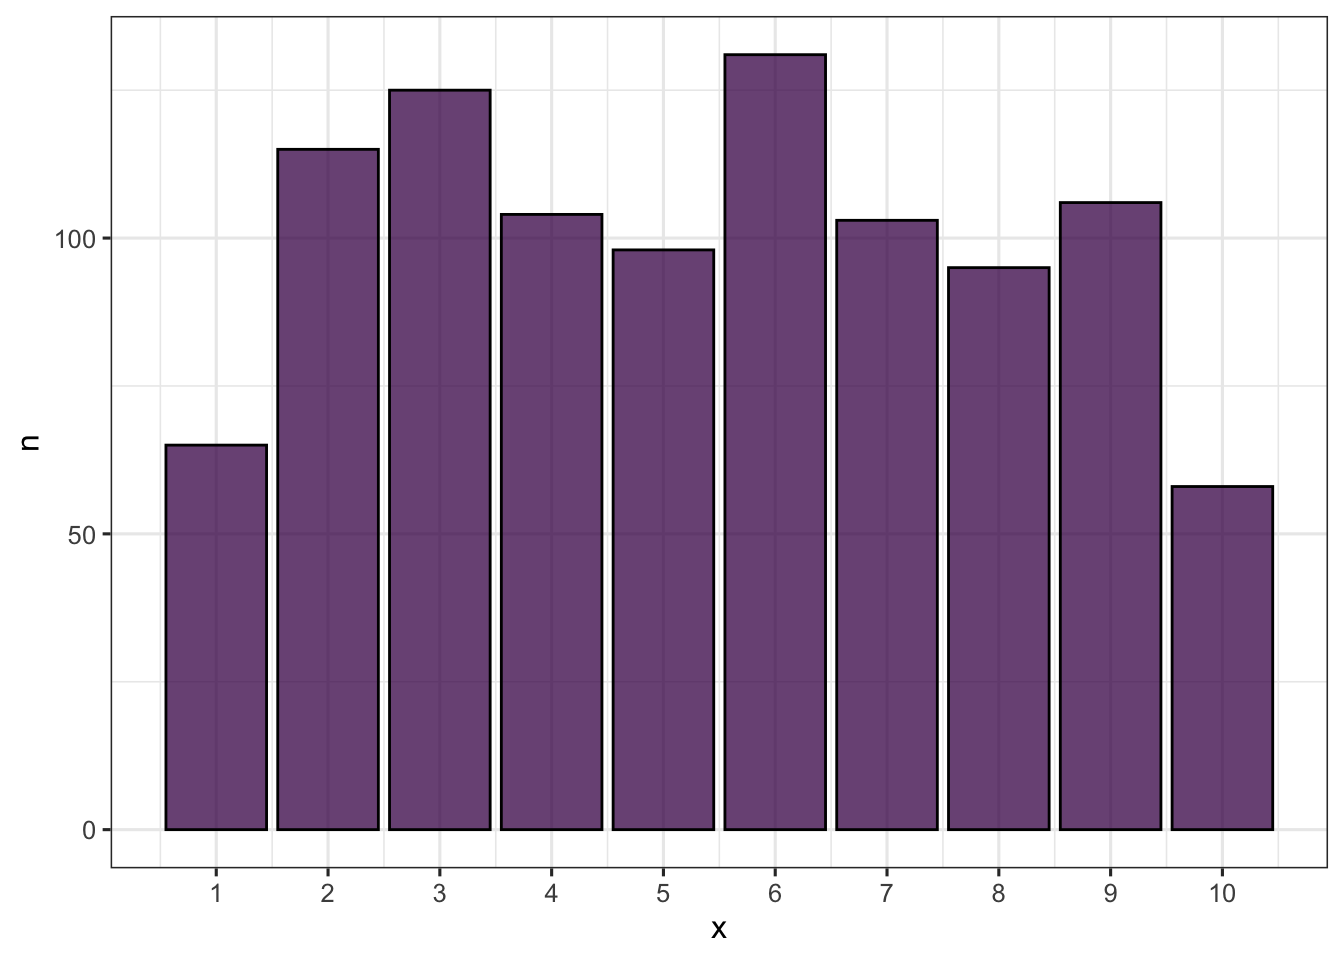
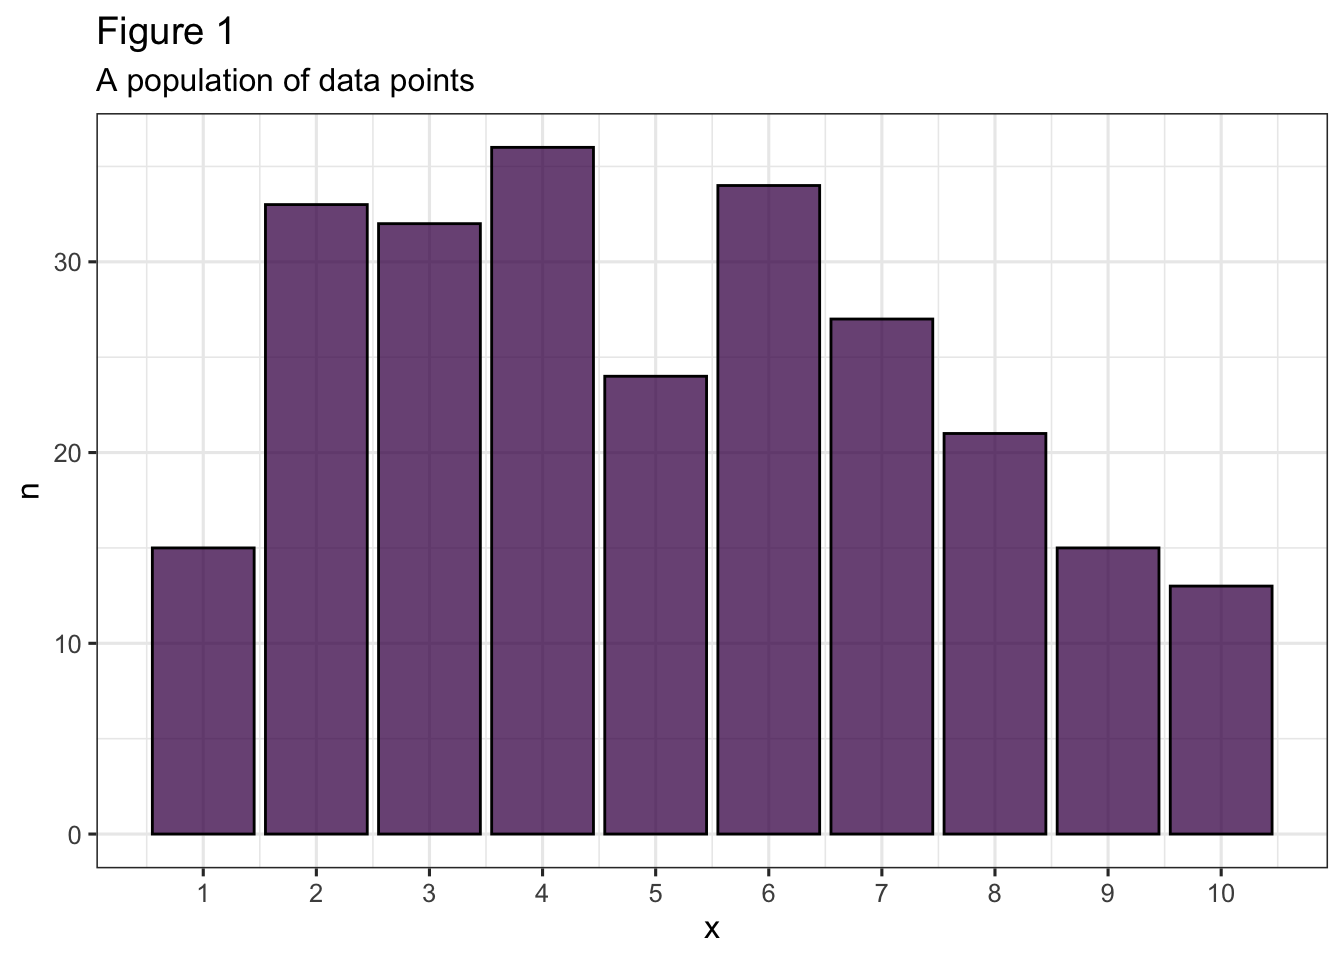
Updated n-1 post.

diff --git a/content/post/2020-08-05-why-divide-by-n-1-when-calculating-the-standard-deviation.html b/content/post/2020-08-05-why-divide-by-n-1-when-calculating-the-standard-deviation.html
@@ -22,47 +22,48 @@ slug: why-divide-by-n-1
 <div id="the-problem" class="section level2">
 <h2>The Problem</h2>
 <p>The problem with using the population variance formula to calculate the variance of a sample is that it is biased. It is biased in that it produces an <em>underestimation</em> of the true variance. Let’s demonstrate that with some simulated data.</p>
-<p>We simulate a population of 1000 data points from a uniform distribution with a range from 1 to 10. Below I show the histogram that represents our population.</p>
+<p>We simulate a population of 250 data points from a uniform distribution with a range from 1 to 10. Below I show the histogram that represents our population.</p>
 <p><img src="/post/2020-08-05-why-divide-by-n-1-when-calculating-the-standard-deviation_files/figure-html/population-1.png" width="100%" /></p>
-<p>The mean is 5.38 and the variance is 7.08. Note that these are our population parameters (often denoted as <span class="math inline">\(\mu\)</span> for the population mean and <span class="math inline">\(\sigma^2\)</span> for the population variance). That means that these values are the true values that we want to estimate with samples drawn from our population, so let’s do that.</p>
-<p>For instance, we can draw a sample of size 5 from our population. Say we do that and get the following values: 5, 8, 9, 10, 9. We can then calculate the variance in two ways, using division by n and division by n - 1. In the former case, this will result in 2.96 and in the latter case it results in 3.7.</p>
-<p>Now let’s do that many many times. Below I show the results of many draws from our population. I simulated drawing samples of size 2 to 10, each 1000 different times. I then plotted for each sample the average biased variance (dividing by n; left) and the average unbiased variance (dividing by n - 1; right).</p>
+<p>The variance is 6.38. Note that this is our population variance (often denoted as <span class="math inline">\(\sigma^2\)</span>). We want to estimate this value using samples drawn from our population, so let’s do that.</p>
+<p>To start, we can draw a single sample of size 5. Say we do that and get the following values: 9, 7, 2, 3, 2. We can then calculate the variance in two ways, using division by <span class="math inline">\(n\)</span> and division by <span class="math inline">\(n - 1\)</span>. In the former case, this will result in 10.3 and in the latter case it results in 10.3.</p>
+<p>Now let’s do that many many times. Below I show the results of many draws from our population. I simulated drawing samples of size 2 to 10, each 10^{4} different times. I then plotted for each sample size the average biased variance (dividing by <span class="math inline">\(n\)</span>; left) and the average unbiased variance (dividing by <span class="math inline">\(n - 1\)</span>; right).</p>
 <p><img src="/post/2020-08-05-why-divide-by-n-1-when-calculating-the-standard-deviation_files/figure-html/bias-1.png" width="100%" /></p>
-<p>We see that the biased measure of variance is indeed biased. The average variance is lower than the true variance (indicated by the dashed line) for each sample size. We also see that the unbiased variance is indeed unbiased. On average, the sample variance matches that of the population variance.</p>
-<p>The results of using the biased measure of variance reveals several clues for understanding the solution to the bias. We see that the amount of bias is larger when the sample size of the samples is smaller. So the solution should be a function of sample size, such that the required correction will be smaller as the sample size increases. We also see that that the bias at n = 2 is half that of the true variance, 2/3rds at n = 3, 3/4ths at n = 4, and so on. Interesting.</p>
+<p>We see that the biased measure of variance is indeed biased. The average variance is lower than the true variance (indicated by the dashed line), for each sample size. We also see that the unbiased variance is indeed unbiased. On average, the sample variance matches that of the population variance.</p>
+<p>The results of using the biased measure of variance reveals several clues for understanding the solution to the bias. We see that the amount of bias is larger when the sample size of the samples is smaller. So the solution should be a function of sample size, such that the required correction will be smaller as the sample size increases. We also see that that the bias at <span class="math inline">\(n = 2\)</span> is half that of the true variance, <span class="math inline">\(\frac23\)</span> at <span class="math inline">\(n = 3\)</span>, <span class="math inline">\(\frac34\)</span> at <span class="math inline">\(n = 4\)</span>, and so on. Interesting.</p>
 <p>But before we go into the solution, we still need to figure out what exactly causes the bias.</p>
-<p>Ideally we would estimate the variance of the sample by subtracting each value from the population mean. However, since we don’t know what the population mean is, we use the next best thing–the sample mean. But this is where the bias comes in. When you use the sample mean, you’re guaranteed that the mean lies somewhere within the range of your data points. In fact, the mean of a sample minimizes the sum of squared deviations from the mean. This means that the sum of deviations from the sample mean is always smaller than the sum of deviations from the population mean. The only exception to that is when the sample mean happens to be the population mean.</p>
+<p>Ideally we would estimate the variance of the sample by subtracting each value from the population mean. However, since we don’t know what the population mean is, we use the next best thing—the sample mean. This is where the bias comes in. When you use the sample mean, you’re guaranteed that the mean lies somewhere within the range of your data points. In fact, the mean of a sample minimizes the sum of squared deviations from the mean. This means that the sum of deviations from the sample mean is <em>always</em> smaller than the sum of deviations from the population mean. The only exception to that is when the sample mean happens to be the population mean.</p>
 <p>Let’s illustrate this with a few graphs. Below are two graphs. In each graph I show 10 data points that represent our population. I also highlight two data points from this population, which represents our sample. In the left graph I show the deviations from the sample mean and in the right graph the deviations from the population mean.</p>
 <p><img src="/post/2020-08-05-why-divide-by-n-1-when-calculating-the-standard-deviation_files/figure-html/samples-1.png" width="100%" />
-We see that in the left graph the sum of squared deviations are much smaller than in the right graph. The sum of is (8 - 9)² + (10 - 9)² = 2 in the left graph and in the right graph its (8 - 5.9)² + (10 - 5.9)² = 21.22. The sum is smaller when using the sample mean compared to using the population mean.</p>
+We see that in the left graph the sum of squared deviations is much smaller than in the right graph. The sum is <span class="math inline">\((8 - 9)² + (10 - 9)² = 2\)</span> in the left graph and in the right graph it’s <span class="math inline">\((8 - 5.9)² + (10 - 5.9)² = 21.22\)</span>. The sum is smaller when using the sample mean compared to using the population mean.</p>
 <p>This is true for any sample you draw from the population (again, except when the sample mean happens to be the same as the population mean). Let’s look at one more draw where the sample mean is closer to the population mean.</p>
 <p><img src="/post/2020-08-05-why-divide-by-n-1-when-calculating-the-standard-deviation_files/figure-html/samples2-1.png" width="100%" /></p>
-<p>Here the sum in the left graph is (2 - 6)² + (10 - 6)² = 32 and the sum in the right graph is (2 - 5.9)² + (10 - 5.9)² = 32.02. The difference is small now, but using the sample mean still results in a smaller sum compared to using the population mean.</p>
+<p>Here the sum in the left graph is <span class="math inline">\((2 - 6)² + (10 - 6)² = 32\)</span> and the sum in the right graph is <span class="math inline">\((2 - 5.9)² + (10 - 5.9)² = 32.02\)</span>. The difference is small now, but using the sample mean still results in a smaller sum compared to using the population mean.</p>
 <p>In short, the source of the bias comes from using the sample mean instead of the population mean. The sample mean is always guaranteed to be in the middle of the observed data, thereby reducing the variance, and creating an underestimation.</p>
 </div>
 <div id="the-solution" class="section level2">
 <h2>The Solution</h2>
-<p>Now that we know that the bias is caused by the sample mean, we can figure out how to solve the problem.</p>
-<p>Looking at the previous graphs, we can see that if the sample mean is far from the population mean, the sample variance is smaller and the bias is large. If the sample mean is close to the population mean, the sample variance is larger and the bias is small. So, the more the sample mean moves around, the greater the bias.</p>
-<p>In other words, the variance of a population actually consists of two types of variance: variance of the data points around the sample mean <em>and</em> the variance of the sample mean around the population mean:</p>
-<p><span class="math display">\[\sigma^2_{sample} + \sigma^2_{mean} = \sigma^2_{population}\]</span>
-Let’s confirm that this is true. For that we need to know how to calculate the variance of the sample mean around the population mean. This is relatively simple; it’s the variance of the population divided by n (<span class="math inline">\(\frac{\sigma^2}n\)</span>). This makes sense because the greater the variance, the more the mean can jump around, but the more data you sample, the closer you get to the population mean.</p>
+<p>Now that we know that the bias is caused by using the sample mean, we can figure out how to solve the problem.</p>
+<p>Looking at the previous graphs, we see that if the sample mean is far from the population mean, the sample variance is smaller and the bias is large. If the sample mean is close to the population mean, the sample variance is larger and the bias is small. So, the more the sample mean moves around the population mean, the greater the bias.</p>
+<p>In other words, besides the variance of the data points around the sample mean, there is also the variance of the sample mean around the population mean. We need both variances in order to accurately estimate the population variance.</p>
+<p>The population variance is thus the sum of two variances:</p>
+<p><span class="math display">\[\sigma^2_{sample} + \sigma^2_{\vphantom{sample}mean} = \sigma^2_{population}\]</span>
+Let’s confirm that this is true. For that we need to know how to calculate the variance of the sample mean around the population mean. This is relatively simple; it’s the variance of the population divided by n (<span class="math inline">\(\frac{\sigma^2}n\)</span>). This makes sense because the greater the variance in the population, the more the mean can jump around, but the more data you sample, the closer you get to the population mean.</p>
 <p>Now that we can calculate both the variance of the sample and the variance of the sample mean, we can check whether adding them together results in the population variance.</p>
-<p>Below I show a graph in which I again sampled from our population, with varying sample sizes. For each sample, I calculated the sample variance (the biased one) and the variance of the mean of that sample (using variance/n). I did this 1000 times per sample size, took the average of each and put them on top of each other. I also added a dashed line to indicate the variance of the population, which is the benchmark we’re trying to reach.</p>
+<p>Below I show a graph in which I again sampled from our population with varying sample sizes. For each sample, I calculated the sample variance (the biased one) and the variance of the mean of that sample (<span class="math inline">\(\frac{\sigma^2}n\)</span>)<a href="#fn1" class="footnote-ref" id="fnref1"><sup>1</sup></a>. I did this 10^{4} times per sample size, took the average of each and put them on top of each other. I also added a dashed line to indicate the variance of the population, which is the benchmark we’re trying to reach.</p>
 <p><img src="/post/2020-08-05-why-divide-by-n-1-when-calculating-the-standard-deviation_files/figure-html/unnamed-chunk-1-1.png" width="100%" /></p>
-<p>Indeed, we see that together the variance of the sample and the variance of the mean of the sample form the population variance.</p>
+<p>Indeed, we see that the variance of the sample and the variance of the mean of the sample together form the population variance.</p>
 </div>
 <div id="the-math" class="section level2">
 <h2>The Math</h2>
 <p>Now that we know that the variance of the population consists of the variance of the sample and the variance of the sample mean, we can figure out the correction factor we need to apply to make the biased variance measure unbiased.</p>
-<p>We found an interesting pattern in one of the previous figures. We saw that at a sample size of 2, the (biased) sample variance appears to be half that of the (unbiased) population variance. At sample size 3, it’s 2/3rds. At sample size 4, it’s 3/4, and so on.</p>
-<p>This means that we can fix the biased variance measure by multiplying it with <span class="math inline">\(n/(n-1)\)</span>. At sample size 2, this would mean we multiply the biased variance by 2 / 1 = 2. For sample size 3, 3 / 2 = 1.5. At sample size 4, 4 / 3 = <span class="math inline">\(1 \frac13\)</span>, resulting in the unbiased variance.</p>
-<p>In other words, to unbias the biased variance measure, we multiply it by a correction factor of <span class="math inline">\(n/(n-1)\)</span>. But where does this correction factor come from?</p>
-<p>Well, because we now know that the sample variance misses the variance of the sample mean, we can expect that the variance of the sample is biased by an amount equal to the variance of the population minus the variance of the sample mean. In other words:</p>
+<p>We found an interesting pattern in Figure 2a, which is also visible is the previous figure. We saw that at a sample size <span class="math inline">\(n=2\)</span>, the (biased) sample variance appears to be half that of the (unbiased) population variance. At sample size <span class="math inline">\(n=3\)</span>, it’s <span class="math inline">\(\frac23\)</span>. At <span class="math inline">\(n=4\)</span>, it’s <span class="math inline">\(\frac34\)</span>, and so on.</p>
+<p>This means that we can fix the biased variance measure by multiplying it with <span class="math inline">\(\frac{n}{(n-1)}\)</span>. At sample size <span class="math inline">\(n = 2\)</span>, this would mean we multiply the biased variance by <span class="math inline">\(\frac21 = 2\)</span>. For sample size <span class="math inline">\(n=3\)</span>, <span class="math inline">\(\frac32 = 1.5\)</span>. At sample size <span class="math inline">\(n=4\)</span>, <span class="math inline">\(\frac43 = 1 \frac13\)</span>, resulting in the unbiased variance.</p>
+<p>In other words, to unbias the biased variance measure, we multiply it by a correction factor of <span class="math inline">\(\frac{n}{(n-1)}\)</span>. But where does this correction factor come from?</p>
+<p>Well, because the sample variance misses the variance of the sample mean, we can expect that the variance of the sample is biased by an amount equal to the variance of the population minus the variance of the sample mean. In other words:</p>
 <p><span class="math display">\[\sigma^2 - \frac{\sigma^2}n\]</span></p>
-<p>Rewriting this <a href="#fn1" class="footnote-ref" id="fnref1"><sup>1</sup></a>, produces:</p>
+<p>Rewriting this <a href="#fn2" class="footnote-ref" id="fnref2"><sup>2</sup></a>, produces:</p>
 <p><span class="math display">\[\sigma^2\cdot\frac{n - 1}n\]</span>
-This means that the variance of a sample will be biased by an amount equal to <span class="math inline">\(\frac{n - 1}n\)</span>. So, to correct that bias, we should multiply the sample variance by the inverse of this bias: <span class="math inline">\(\frac{n}{n-1}\)</span> <a href="#fn2" class="footnote-ref" id="fnref2"><sup>2</sup></a>.</p>
+The variance of a sample will be biased by an amount equal to <span class="math inline">\(\frac{n - 1}n\)</span>. To correct that bias we should multiply the sample variance by the inverse of this bias: <span class="math inline">\(\frac{n}{n-1}\)</span> <a href="#fn3" class="footnote-ref" id="fnref3"><sup>3</sup></a>.</p>
 <p>So, an unbiased measure of our sample variance is the biased sample variance times the correction factor:</p>
 <p><span class="math display">\[\frac{\sum(x_i - \overline{x})^2}{n}\cdot{\frac n{n-1}}\]</span>
 Because the <em>n</em> in the denominator of the left term (the biased variance formula) cancels out the <em>n</em> in the numerator of the right term (the bias correction), the formula can be rewritten as:</p>
@@ -70,13 +71,14 @@ Because the <em>n</em> in the denominator of the left term (the biased variance 
 </div>
 <div id="summary" class="section level2">
 <h2>Summary</h2>
-<p>We calculate the variance of a sample by summing the squared deviations of each data point from the sample mean and dividing it by <span class="math inline">\(n - 1\)</span>. The <span class="math inline">\(n - 1\)</span> actually comes from a correction factor <span class="math inline">\(\frac n{n-1}\)</span> that is needed to correct for a bias caused by taking the deviations from the sample mean rather than the population mean. Taking the deviations from the sample mean only constitutes the variance around the sample mean, but ignores the variation of the sample mean around the population mean, producing an underestimation equal to the size of the variance of the sample mean <span class="math inline">\(\frac{\sigma^2}{n}\)</span>. The correction factor corrects for this underestimation, producing an unbiased estimate of the population variance.</p>
-<p><em>This post was last updated on 2020-08-05.</em></p>
+<p>We calculate the variance of a sample by summing the squared deviations of each data point from the sample mean and dividing it by <span class="math inline">\(n - 1\)</span>. The <span class="math inline">\(n - 1\)</span> actually comes from a correction factor <span class="math inline">\(\frac n{n-1}\)</span> that is needed to correct for a bias caused by taking the deviations from the sample mean rather than the population mean. Taking the deviations from the sample mean only constitutes the variance around the sample mean, but ignores the variation of the sample mean around the population mean, producing an underestimation equal to the size of the variance of the sample mean: <span class="math inline">\(\frac{\sigma^2}{n}\)</span>. The correction factor corrects for this underestimation, producing an unbiased estimate of the population variance.</p>
+<p><em>This post was last updated on 2020-08-06.</em></p>
 </div>
 <div class="footnotes">
 <hr />
 <ol>
-<li id="fn1"><p>Here are the steps to rewrite the formula: <span class="math display">\[\sigma^2 - \frac{\sigma^2}n\]</span> Add an n to the numerator and denominator of the left term: <span class="math display">\[\frac{\sigma^2n}n - \frac{\sigma^2}n\]</span> Combine the terms: <span class="math display">\[\frac{\sigma^2n - \sigma^2}n\]</span> Simplify the numerator: <span class="math display">\[\frac{\sigma^2(n - 1)}n\]</span> Move <span class="math inline">\(\sigma^2\)</span> out of the numerator: <span class="math display">\[\sigma^2\frac{n - 1}n\]</span><a href="#fnref1" class="footnote-back">↩</a></p></li>
-<li id="fn2"><p>The inverse of <span class="math inline">\(\frac{n - 1}n\)</span> is <span class="math inline">\(\frac{1}{\frac{n - 1}n}\)</span>. Multiply both the numerator and the denominator by <span class="math inline">\(n\)</span> and you get <span class="math inline">\(\frac{n}{n-1}\)</span><a href="#fnref2" class="footnote-back">↩</a></p></li>
+<li id="fn1"><p>Here I cheat a little because in order to calculate the variance of the sample mean, I need to use the unbiased variance formula.<a href="#fnref1" class="footnote-back">↩</a></p></li>
+<li id="fn2"><p>Here are the steps to rewrite the formula: <span class="math display">\[\sigma^2 - \frac{\sigma^2}n\]</span> Add an n to the numerator and denominator of the left term: <span class="math display">\[\frac{\sigma^2n}n - \frac{\sigma^2}n\]</span> Combine the terms: <span class="math display">\[\frac{\sigma^2n - \sigma^2}n\]</span> Simplify the numerator: <span class="math display">\[\frac{\sigma^2(n - 1)}n\]</span> Move <span class="math inline">\(\sigma^2\)</span> out of the numerator: <span class="math display">\[\sigma^2\cdot\frac{n - 1}n\]</span><a href="#fnref2" class="footnote-back">↩</a></p></li>
+<li id="fn3"><p>The inverse of <span class="math inline">\(\frac{n - 1}n\)</span> is <span class="math inline">\(\frac{1}{\frac{n - 1}n}\)</span>. Multiply both the numerator and the denominator by <span class="math inline">\(n\)</span> and you get <span class="math inline">\(\frac{n}{n-1}\)</span>.<a href="#fnref3" class="footnote-back">↩</a></p></li>
 </ol>
 </div>
